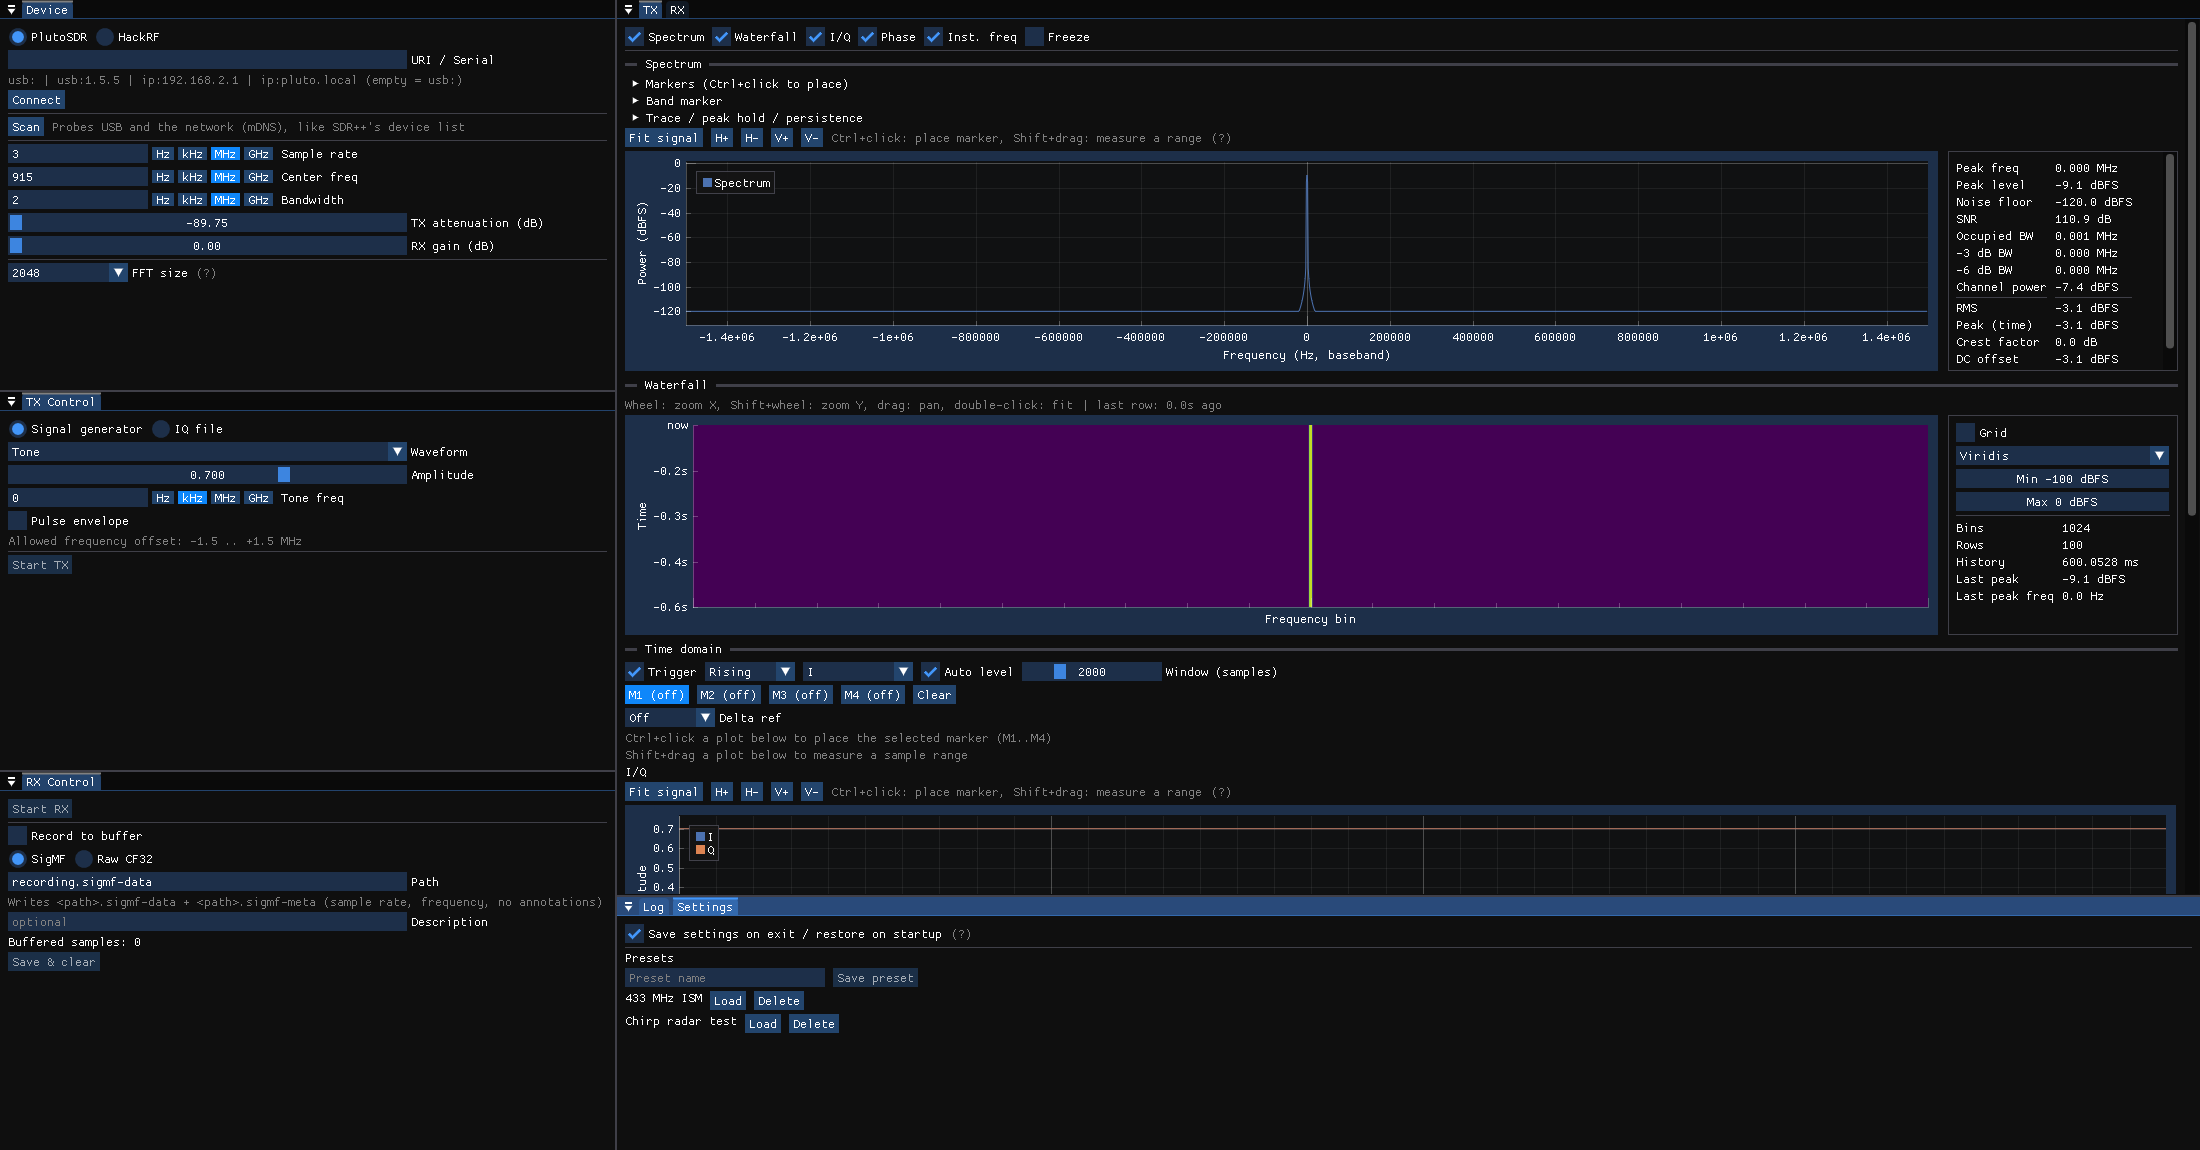
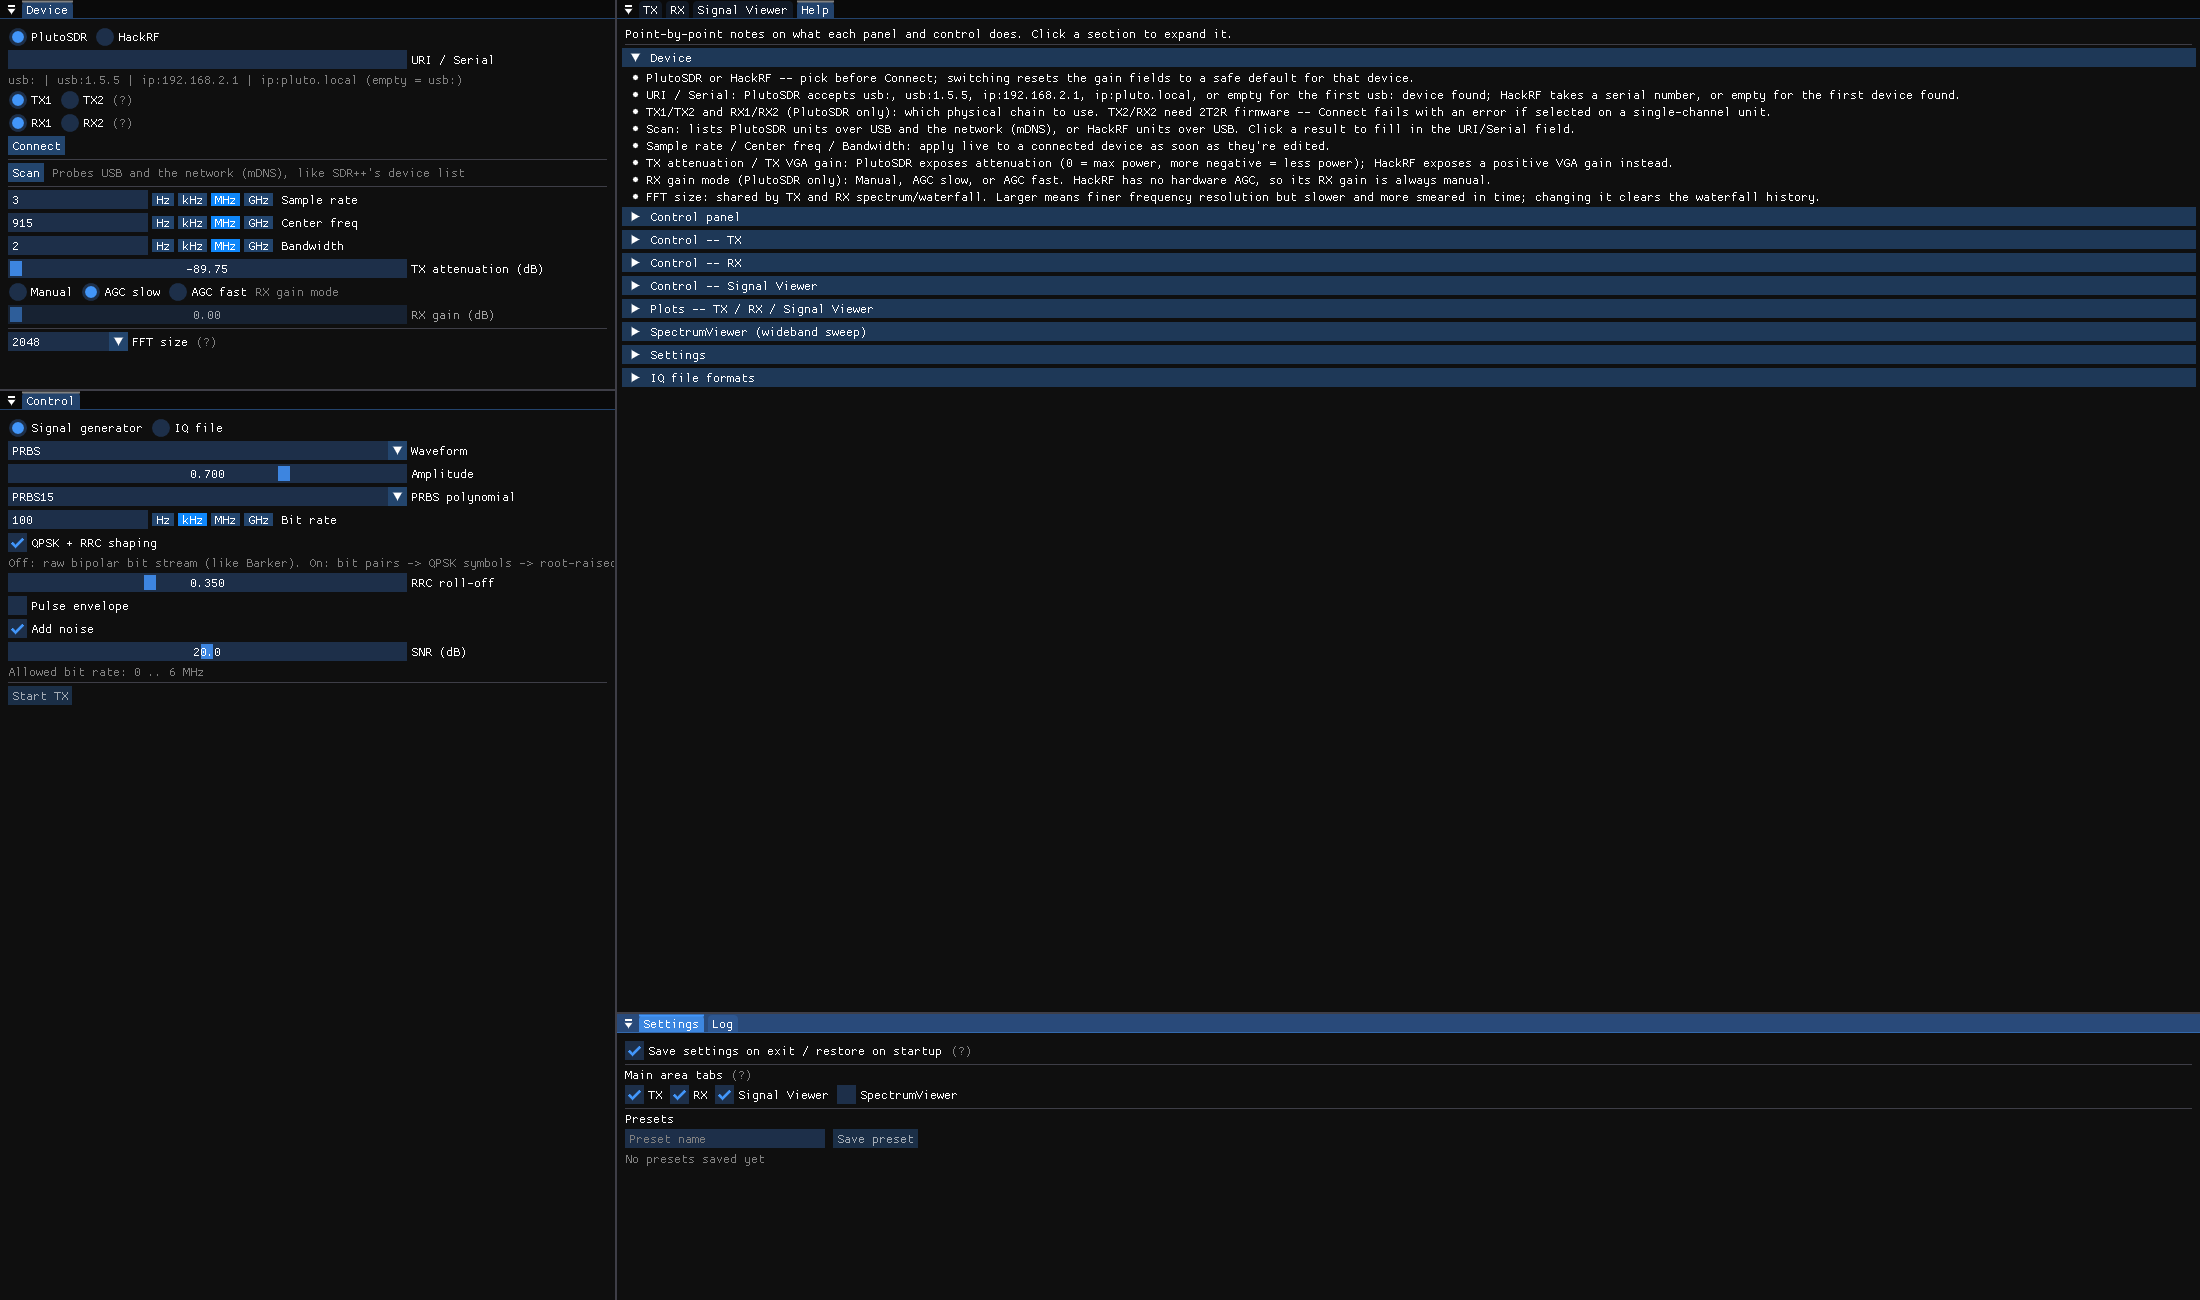
[u] update readme

diff --git a/README.md b/README.md
@@ -6,9 +6,18 @@
 
 ## Возможности
 
+### Интерфейс
+- **Device** и **Control** закреплены в левой колонке и не дублируются на каждой вкладке — единая панель Control показывает управление той вкладки (TX, RX или Signal Viewer), что сейчас открыта в основной области.
+- Вкладки **TX / RX / Signal Viewer / SpectrumViewer** в основной области включаются и выключаются независимо друг от друга в Settings ("Main area tabs") — выключение вкладки просто прячет её, не останавливая ничего, что работает под капотом.
+- **Help** — встроенная построчная справка по каждой панели и элементу управления, сворачиваемыми разделами по темам.
+
+![Help: сворачиваемая построчная справка по каждой панели](assets/screenshots/help.png)
+
 ### Поддержка устройств
 - **PlutoSDR** и **HackRF**, с автоматическим поиском по USB/сети (mDNS/Avahi для PlutoSDR).
 - Настраиваемые частота дискретизации, центральная частота, полоса пропускания, усиление TX/RX.
+- **TX1/TX2 и RX1/RX2** (только PlutoSDR) — выбор физического канала; TX2/RX2 требуют прошивку 2T2R, иначе Connect завершится ошибкой на одноканальном устройстве.
+- **Режим усиления RX** (только PlutoSDR): Manual, AGC slow, AGC fast — у HackRF аппаратного AGC нет, усиление RX всегда ручное.
 - Настраиваемый **размер FFT** (256…32768) — определяет частотное разрешение спектра/водопада; действует сразу и общий для TX и RX.
 - Проверка связи с устройством в реальном времени — интерфейс сразу показывает, если устройство отключилось.
 
@@ -21,11 +30,21 @@
   - Баркер-кодированные BPSK-последовательности (все стандартные коды, длины 2–13)
   - Шум
   - Пила (ramp)
+  - ПСП (PRBS) — псевдослучайная битовая последовательность на стандартных LFSR-полиномах (PRBS7…PRBS23), опционально с QPSK+RRC-формированием (см. ниже).
 - Опциональная импульсная огибающая — любую форму сигнала (например, чирп) можно "открывать/закрывать", получая импульсный радароподобный сигнал. Форма огибающей настраивается отдельно: прямоугольная (жёсткое включение/выключение), sinc (sin(x)/x, несколько боковых лепестков), Gaussian или Hann — более плавные формы заметно сужают боковые лепестки спектра импульса по сравнению с прямоугольной.
+- **Добавление шума** — подмешивает комплексный гауссовский шум к любому сигналу генератора на заданном SNR относительно Amplitude; применяется после огибающей импульса, так что уровень шума остаётся непрерывным даже между импульсами. Пригодится, чтобы проверить приёмный тракт при контролируемо ухудшенном SNR вместо чистого сигнала.
 - Передача из загруженного IQ-файла вместо генератора, с опциональным зацикливанием и ресемплингом при загрузке (см. ниже).
 - Живое превью сигнала (временная область + спектр), ещё до нажатия Start TX — параметры применяются мгновенно, генератор (или загруженный файл) непрерывно считается в фоне и просто не уходит в эфир, пока TX не запущен.
 
 ![Импульс с sinc-огибающей: заметно более узкие боковые лепестки спектра, чем у прямоугольного импульса](assets/screenshots/tx_pulse_envelope.png)
+
+#### ПСП (PRBS) и QPSK-формирование
+
+- **PRBS polynomial** — выбор стандартного полинома LFSR (PRBS7…PRBS23), **Bit rate** — скорость битового потока.
+- **QPSK + RRC shaping**: выключено — передаются сырые биполярные чипы (по одному ±amplitude-сэмплу на бит, как у Barker); включено — пары бит превращаются в QPSK-символы, сформированные фильтром корень-приподнятого косинуса (настраиваемый **RRC roll-off**) — например, чтобы подать известную битовую последовательность на вход демодулятора/ПЛИС под тестом.
+- Комбинируется с импульсной огибающей и с добавлением шума выше — все три включаются независимо.
+
+![PRBS + QPSK/RRC-формирование с добавленным шумом (SNR)](assets/screenshots/tx_prbs_noise.png)
 
 #### Загрузка IQ-файла и ресемплинг
 Raw-форматы (`.cf32`/`.ci16`) не хранят частоту дискретизации, с которой записаны — поэтому при включении **Resample on load** её нужно указать вручную:
@@ -43,6 +62,27 @@ Raw-форматы (`.cf32`/`.ci16`) не хранят частоту дискр
 - Запись принятых IQ-сэмплов на диск по требованию — в SigMF (по умолчанию) или в сыром CF32 (см. ниже).
 
 ![RX-панель без подключённого устройства: та же раскладка, что и у TX](assets/screenshots/rx_overview.png)
+
+### Просмотр файлов без устройства (Signal Viewer)
+
+Отдельная вкладка для загрузки, предпросмотра, ресемплинга и сохранения IQ-файлов вообще без подключения устройства — независимо от файлового источника на TX-панели.
+
+- **Load** работает так же, как загрузка файла на TX: фоновый поток с прогресс-баром, опциональный ресемплинг при загрузке, автоматическое восстановление sample rate и центральной частоты из SigMF.
+- **Loop preview** — зациклить предпросмотр сигнала/спектра.
+- **Save** записывает именно то, что сейчас загружено (уже отресемплированное, если это было включено) в SigMF или сыром CF32 — если нужна другая частота дискретизации на выходе, сначала включите ресемплинг при загрузке.
+
+![Signal Viewer: загруженный и просматриваемый IQ-файл без подключённого устройства](assets/screenshots/signal_viewer.png)
+
+### Широкополосный обзор спектра (SpectrumViewer)
+
+Для сканирования диапазона частот, который шире, чем устройство способно захватить за одно измерение.
+
+- **Bands** — один или несколько именованных диапазонов, задаваемых как Start/End либо как эквивалентные Center/Span.
+- **Start sweep** запускает сканирование выбранного диапазона: устройство перестраивается шаг за шагом (шаг равен текущей Sample rate), а составной спектр заполняется по мере прохождения.
+- Sweep временно берёт RX под свой контроль — **Stop sweep** останавливает RX только в том случае, если это сделал сам sweep; если RX уже был запущен независимо, он остаётся работать.
+- По умолчанию скрыт: включается чекбоксом **SpectrumViewer** в Settings → "Main area tabs" (см. ниже).
+
+![SpectrumViewer: заданные полосы сканирования перед запуском sweep](assets/screenshots/spectrum_viewer.png)
 
 ### Работа с IQ-файлами
 - Загрузка и сохранение IQ-файлов в распространённых форматах:
@@ -138,6 +178,7 @@ Raw-форматы (`.cf32`/`.ci16`) не хранят частоту дискр
 
 Панель **Settings** (снизу, рядом с логом):
 - **Save settings on exit / restore on startup** — включено по умолчанию: текущая конфигурация (устройство и его URI, sample rate/центральная частота/полоса, TX/RX gain, размер FFT, весь TX-генератор и файловый источник, формат/путь записи RX) сохраняется при закрытии приложения и восстанавливается при следующем запуске. Выключается тем же чекбоксом — само это состояние тоже запоминается, так что отключение переживает перезапуск.
+- **Main area tabs** — какие из TX, RX, Signal Viewer и SpectrumViewer показываются вкладками в основной области; снятие галочки просто прячет вкладку, не останавливая ничего, что работает под капотом. SpectrumViewer по умолчанию скрыт.
 - **Presets** — сохранить текущую конфигурацию под произвольным именем (**Save preset**), затем в любой момент подгрузить (**Load**) или удалить (**Delete**) из списка. Работают независимо от переключателя автосохранения выше — доступны, даже если оно выключено.
 
 Файлы настроек и пресетов хранятся в `%APPDATA%\iqforge` (Windows) или `~/.config/iqforge` (Linux).
